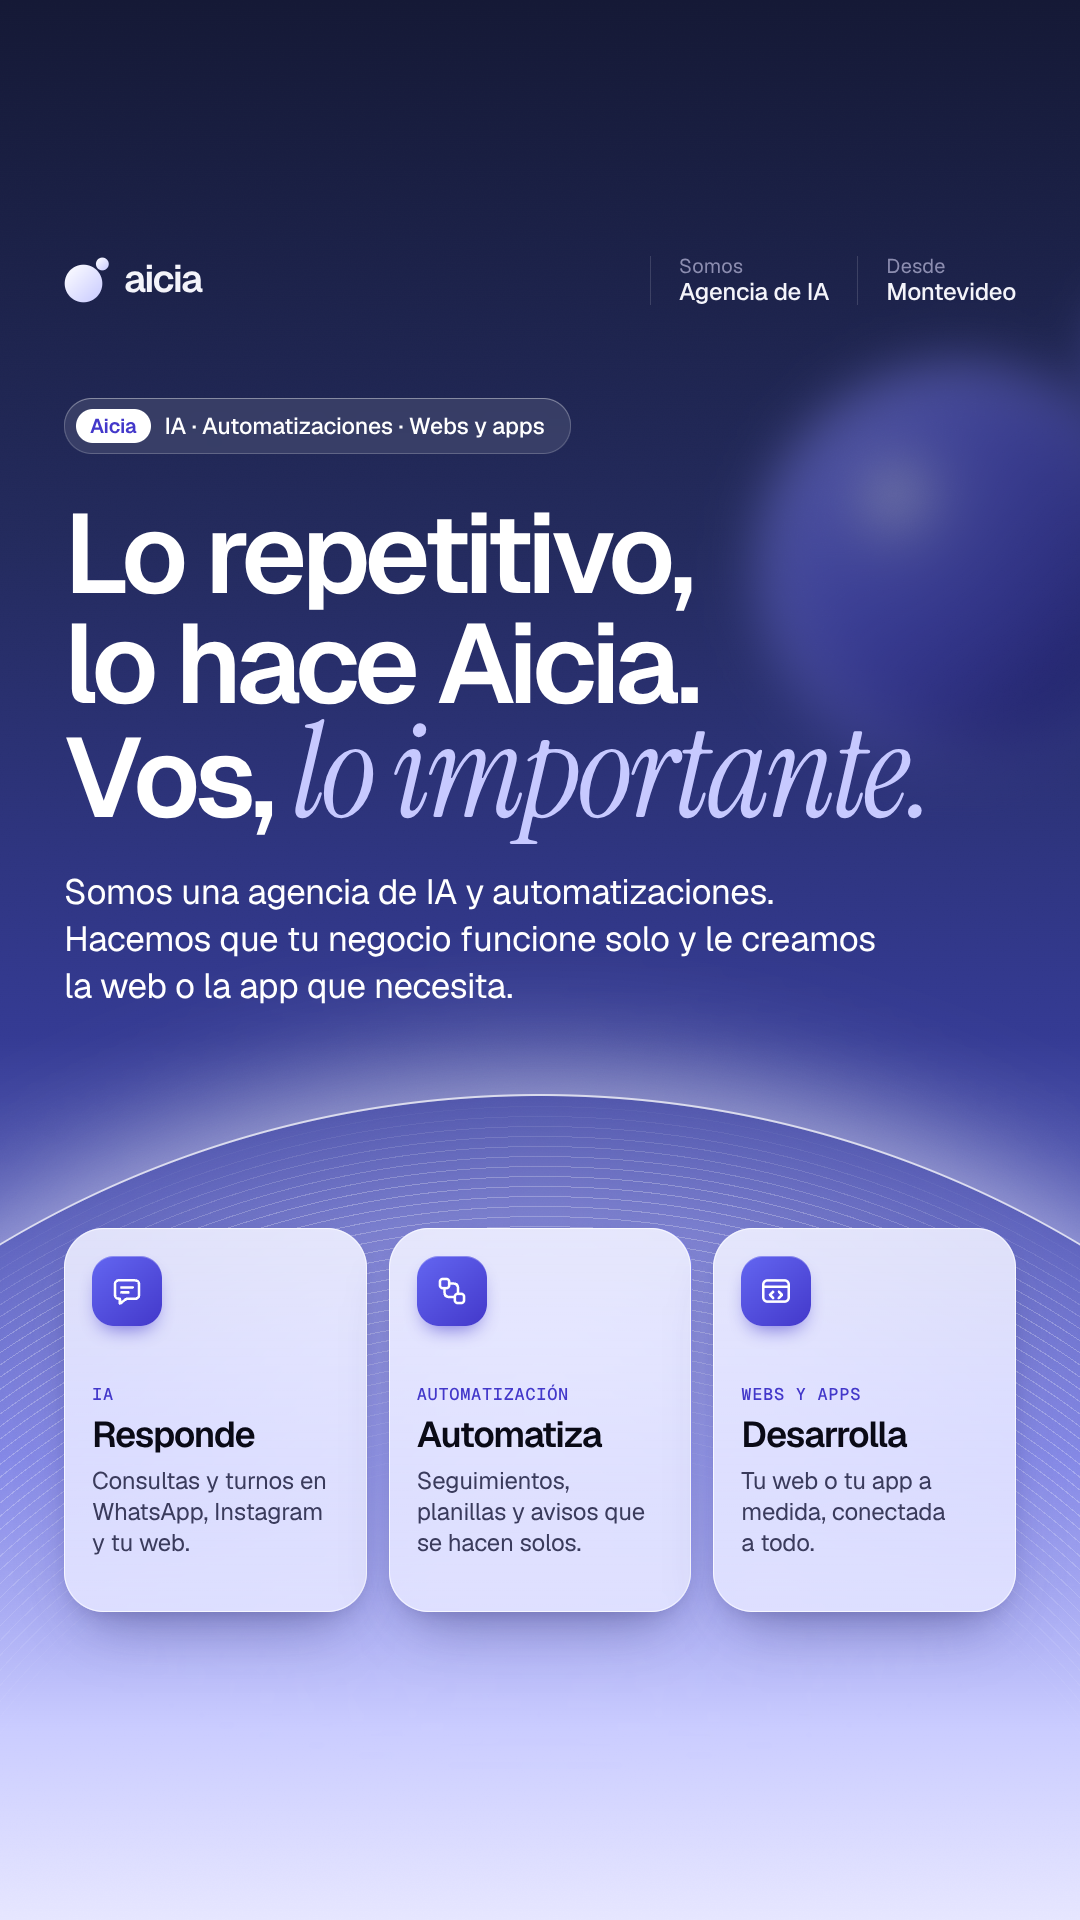
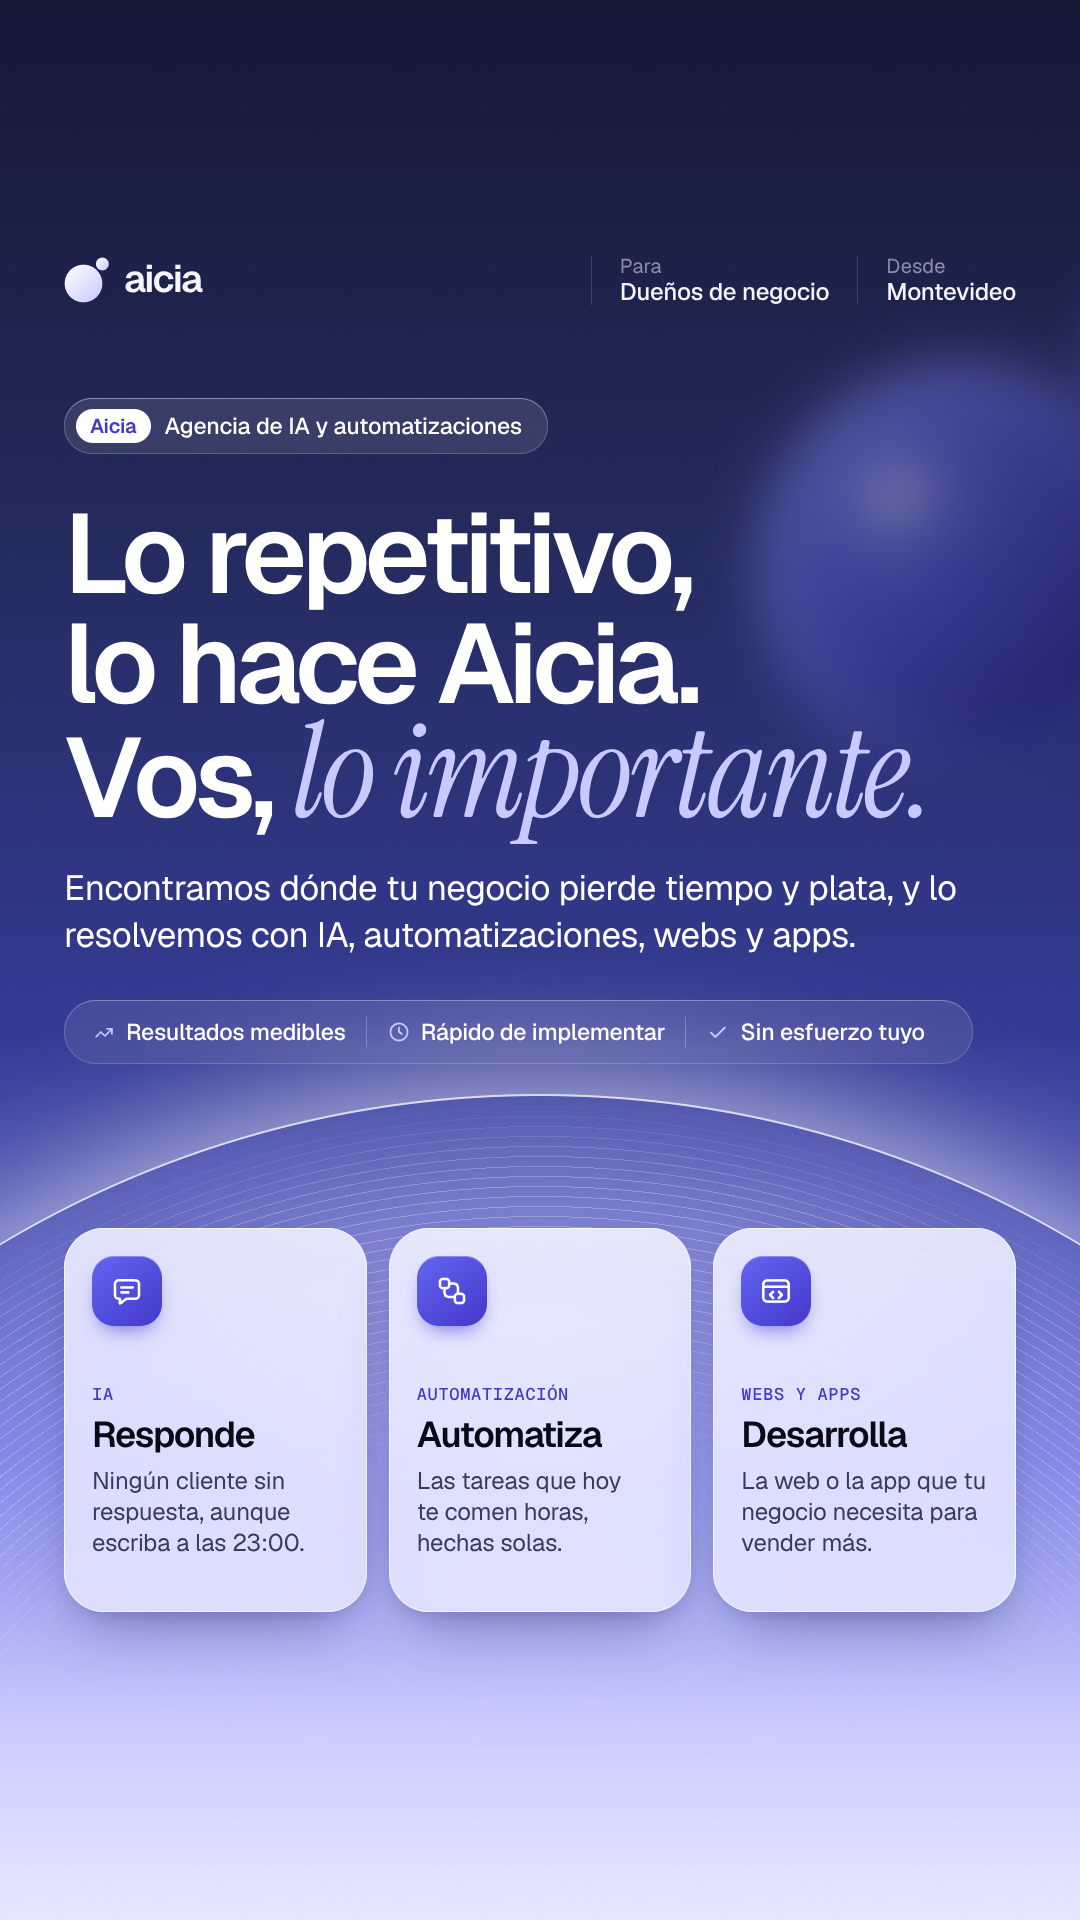
Optimiza la historia V4 con la Clase Negocio AI
Copy basado en el documento: identidad clara en la pill, bajada que
parte de dónde el negocio pierde tiempo y plata, fila con la
ecuación del valor (resultados medibles, rápido, sin esfuerzo) y
tarjetas contadas por lo que gana el negocio. La fila meta ahora le
habla al dueño de negocio.

Claude-Session: https://claude.ai/code/session_01SBSshHAET78NiDLxszLW9R

diff --git a/historias/que-es-aicia/historias.html b/historias/que-es-aicia/historias.html
@@ -163,7 +163,11 @@ img.sph{display:block;pointer-events:none;user-select:none}
 .v4 .pill b{height:34px;padding:0 14px;border-radius:999px;display:inline-flex;align-items:center;background:#fff;color:var(--indigo-d);font-weight:600;font-size:20px}
 .v4 .title{left:var(--m);top:500px;font-size:112px;width:960px;color:#fff;white-space:nowrap}
 .v4 .title .serif{font-size:132px;letter-spacing:-0.025em;line-height:.8;color:var(--lav)}
-.v4 .lede{left:var(--m);top:870px;width:820px;font-size:35px;line-height:1.34;color:#fff;letter-spacing:-0.012em;text-wrap:pretty}
+.v4 .lede{left:var(--m);top:866px;width:952px;font-size:35px;line-height:1.34;color:#fff;letter-spacing:-0.012em;text-wrap:pretty}
+.v4 .vals{left:var(--m);top:1000px;height:64px;padding:0 28px;border-radius:999px;display:flex;align-items:center;background:rgba(255,255,255,.08);backdrop-filter:blur(18px);box-shadow:inset 0 0 0 1px rgba(255,255,255,.16),inset 0 1px 0 rgba(255,255,255,.2)}
+.v4 .vals span{display:flex;align-items:center;gap:10px;padding:0 20px;font-size:23px;font-weight:500;color:#fff;letter-spacing:-0.01em;border-left:1px solid rgba(255,255,255,.24);white-space:nowrap}
+.v4 .vals span:first-child{padding-left:0;border-left:0}
+.v4 .vals .ic{font-size:24px;color:var(--lav)}
 .v4 .cards{left:var(--m);right:var(--m);top:1228px;display:grid;grid-template-columns:repeat(3,1fr);gap:22px}
 .v4 .card{border-radius:40px;padding:28px 28px 32px;height:384px;display:flex;flex-direction:column;background:linear-gradient(180deg,rgba(255,255,255,.80),rgba(255,255,255,.62));backdrop-filter:blur(24px) saturate(140%);box-shadow:inset 0 0 0 1px rgba(255,255,255,.75),0 30px 60px -24px rgba(30,30,90,.45),0 8px 18px -8px rgba(30,30,90,.20);color:var(--ink)}
 .v4 .card .ti{flex:none;width:70px;height:70px;border-radius:22px;display:grid;place-items:center;font-size:34px;color:#fff;background:linear-gradient(140deg,#6366F1,#4338CA);box-shadow:inset 0 1px 0 rgba(255,255,255,.3),0 10px 20px -8px rgba(67,56,202,.7)}
@@ -246,6 +250,7 @@ img.sph{display:block;pointer-events:none;user-select:none}
   <symbol id="i-pin" viewBox="0 0 24 24"><path d="M12 21s-6.5-5.6-6.5-11a6.5 6.5 0 0 1 13 0c0 5.4-6.5 11-6.5 11z"/><circle cx="12" cy="10" r="2.4"/></symbol>
   <symbol id="i-flow" viewBox="0 0 24 24"><rect x="3.5" y="3.5" width="6.5" height="6.5" rx="2"/><rect x="14" y="14" width="6.5" height="6.5" rx="2"/><path d="M10 6.75h3.25a3 3 0 0 1 3 3V14"/><path d="M6.75 10v3.25a3 3 0 0 0 3 3H14"/></symbol>
   <symbol id="i-code" viewBox="0 0 24 24"><rect x="3" y="4.5" width="18" height="15" rx="3"/><path d="M3 9h18"/><path d="M10 12.5l-2.25 2.25L10 17M14 12.5l2.25 2.25L14 17"/></symbol>
+  <symbol id="i-trend" viewBox="0 0 24 24"><path d="M4 17l5-5 4 4 7-7"/><path d="M15 9h5v5"/></symbol>
   <symbol id="i-done" viewBox="0 0 24 24"><path d="M3 12.5l4 4L15.5 8"/><path d="M11 15.5l1 1L21 8"/></symbol>
 </svg>
 
@@ -330,15 +335,16 @@ img.sph{display:block;pointer-events:none;user-select:none}
   <div class="bg"><div class="halo"></div><div class="arc"></div><div class="arc2"></div><img class="sph s-a" data-sph="indigo" alt=""><div class="grain"></div></div>
   <header class="meta">
     <div class="brand"><svg><use href="#logo-w"/></svg>aicia</div>
-    <dl><div><dt>Somos</dt><dd>Agencia de IA</dd></div><div><dt>Desde</dt><dd>Montevideo</dd></div></dl>
+    <dl><div><dt>Para</dt><dd>Dueños de negocio</dd></div><div><dt>Desde</dt><dd>Montevideo</dd></div></dl>
   </header>
-  <div class="pill"><b>Aicia</b>IA · Automatizaciones · Webs y apps</div>
+  <div class="pill"><b>Aicia</b>Agencia de IA y automatizaciones</div>
   <h1 class="title">Lo repetitivo,<br>lo hace Aicia.<br>Vos, <span class="serif">lo importante.</span></h1>
-  <p class="lede">Somos una agencia de IA y automatizaciones. Hacemos que tu negocio funcione solo y le creamos la web o la app que necesita.</p>
+  <p class="lede">Encontramos dónde tu negocio pierde tiempo y plata, y lo resolvemos con IA, automatizaciones, webs y apps.</p>
+  <div class="vals"><span><svg class="ic"><use href="#i-trend"/></svg>Resultados medibles</span><span><svg class="ic"><use href="#i-clock"/></svg>Rápido de implementar</span><span><svg class="ic"><use href="#i-check"/></svg>Sin esfuerzo tuyo</span></div>
   <div class="cards">
-    <div class="card"><div class="ti"><svg class="ic"><use href="#i-chat"/></svg></div><span class="k mono">IA</span><h3>Responde</h3><p>Consultas y turnos en WhatsApp, Instagram y tu web.</p></div>
-    <div class="card"><div class="ti"><svg class="ic"><use href="#i-flow"/></svg></div><span class="k mono">Automatización</span><h3>Automatiza</h3><p>Seguimientos, planillas y avisos que se hacen solos.</p></div>
-    <div class="card"><div class="ti"><svg class="ic"><use href="#i-code"/></svg></div><span class="k mono">Webs y apps</span><h3>Desarrolla</h3><p>Tu web o tu app a medida, conectada a todo.</p></div>
+    <div class="card"><div class="ti"><svg class="ic"><use href="#i-chat"/></svg></div><span class="k mono">IA</span><h3>Responde</h3><p>Ningún cliente sin respuesta, aunque escriba a las 23:00.</p></div>
+    <div class="card"><div class="ti"><svg class="ic"><use href="#i-flow"/></svg></div><span class="k mono">Automatización</span><h3>Automatiza</h3><p>Las tareas que hoy te comen horas, hechas solas.</p></div>
+    <div class="card"><div class="ti"><svg class="ic"><use href="#i-code"/></svg></div><span class="k mono">Webs y apps</span><h3>Desarrolla</h3><p>La web o la app que tu negocio necesita para vender más.</p></div>
   </div>
 </section>
 
